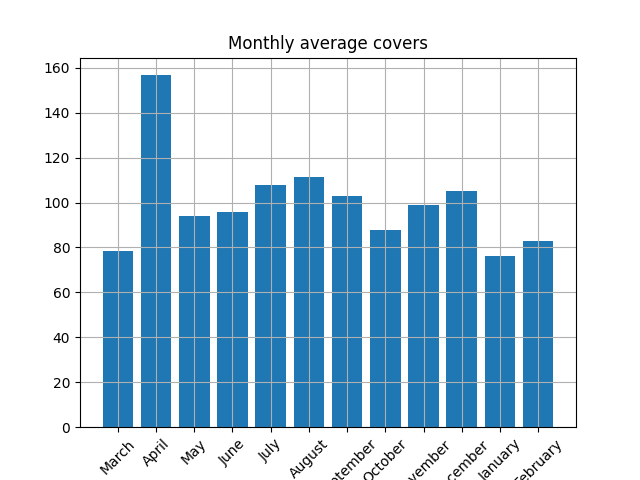
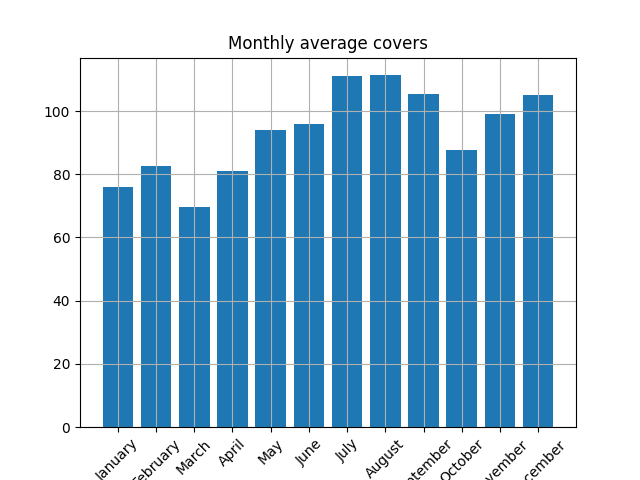
fixing minor errors

diff --git a/restaurant_analytics/render.py b/restaurant_analytics/render.py
@@ -31,19 +31,20 @@ def monthly_total():
 	"""returns a dict of monthly total. {april:X, may:Y, ...} """
 	df = pd.read_excel(fp, usecols="C:D",)
 	l = len(df["count"])
-	ret = {}
-	month = df["date"][0].month
-	tot = 0
+	ret = {"January":0, "February":0, "March":0, "April":0, "May":0, "June":0, "July":0, "August":0, "September":0, "October":0, "November":0, "December":0}
+	tot_days = {"January":0, "February":0, "March":0, "April":0, "May":0, "June":0, "July":0, "August":0, "September":0, "October":0, "November":0, "December":0}
+	
+	month_idx = df["date"][0].month	#returns an integer that is intepreted as a month of the year
+	month = calendar.month_name[month_idx]
 	for i in range(l):
-		if df["date"][i].month != month:
-			ret[calendar.month_name[month]] = tot
-			month = df["date"][i].month
+		if df["date"][i].month != month_idx:
+			month_idx = df["date"][i].month
+			month = calendar.month_name[month_idx]	#returns str name of the month idx
 			# print(tot)
-			tot = 0
-		tot += df["count"][i]
+		ret[month] += df["count"][i]
+		tot_days[month] += 1
 
-	ret[calendar.month_name[month]] += tot
-	return ret
+	return ret, tot_days
 
 def days_of_week():
 	"""dict of array for a given day of the week(i.e. 'Sunday:[1st sunday, 2nd, ..]')"""
@@ -159,7 +160,7 @@ def main():
 		#daily average throughout the week
 		out = np.sum(val)/len(val)
 		A[key] = out
-		print("{}: {:.2f}".format(key,out) )
+		# print("{}: {:.2f}".format(key,out) )
 	# print_daily_data(a, selected_day='Monday')	# prints a line graph for each given day
 	# print_daily_all(a)	# prints all the days on the same graph
 	# print_daily_average(A)	# prints bar graph of daily averages
@@ -167,17 +168,13 @@ def main():
 
 	# print("\ndata per given month")
 	B = {}
-	b = monthly_total()
+	b, b_tot_days = monthly_total()
 	for key, val in b.items():
 		#daily average for each month
-		if key == "February":
-			B[key] = val/28
-		elif key == "April" or key == "June" or key == "September" or key == "November":
-			B[key] = val/30
-		else:
-			B[key] = val/31 
-	# 	print("{}: {:.2f}".format(key,B[key]))
-	# print_monthly_average(B)		
+		B[key] = val/b_tot_days[key]
+		
+		# print("{}: {:.2f}".format(key,B[key]))
+	print_monthly_average(B)		
 
 	c = month_day_joint()
 	#day-month combo that exceeds daily & month avg  
@@ -188,8 +185,8 @@ def main():
 				month = calendar.month_name[i+1]
 				day = calendar.day_name[j]
 				avg = c[i][j][0]/c[i][j][1]
-				margin_1 = bool(avg/A[day] > 0.9)
-				margin_2 = bool(avg/B[month] > 0.9)
+				margin_1 = bool(avg-A[day] > -10)
+				margin_2 = bool(avg-B[month] > -10)
 				str = f"{month}-{day}"
 				print( f"{str:<19}\t{avg:.2f}" ) # uncomment to print total joint data
 
